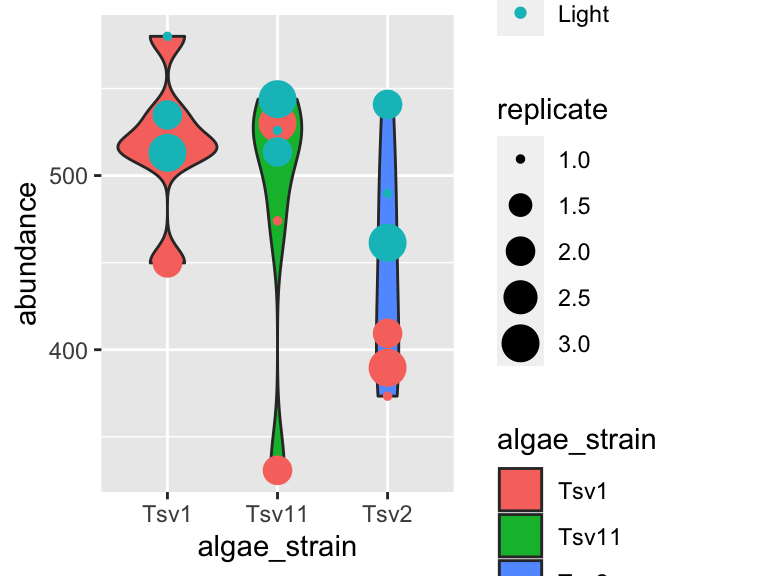
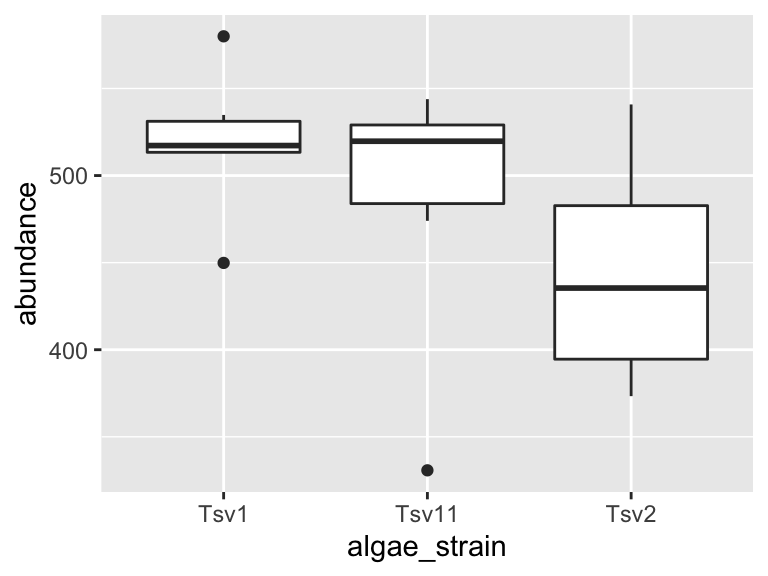
rfc2

diff --git a/R_For_Chemists_2/Exercises_1.html b/R_For_Chemists_2/Exercises_1.html
@@ -179,7 +179,7 @@ code span.wa { color: #60a0b0; font-weight: bold; font-style: italic; } /* Warni
             <section class="normal" id="section-">
 <div id="Exercises_1" class="section level1" number="3">
 <h1><span class="header-section-number">3</span> Exercises 1</h1>
-<p>In this set of exercises we’re going to practice filtering and plotting data in R Markdown. We’re going to work with two datasets: (i) algae_data and (ii) alaska_lake_data. <strong>For these exercises, you will write your code and answers to any questions in an R Markdown report, compile it as a pdf, and submit it on Canvas. If you have any questions please let me know</strong></p>
+<p>In this set of exercises we’re going to practice filtering and plotting data in R Markdown. We’re going to work with two datasets: (i) algae_data and (ii) alaska_lake_data. <strong>For these exercises, you will write your code and answers to all questions in an R Markdown report, compile it as a pdf, and submit it on Canvas. If you have any questions please let me know</strong></p>
 <div id="part-1-algae-chemistry-dataset" class="section level2" number="3.1">
 <h2><span class="header-section-number">3.1</span> Part 1: Algae Chemistry Dataset</h2>
 <!-- 1. **Importing data**
@@ -203,7 +203,7 @@ Import the algae chemistry data and send it into a new object called `algae_data
 <ol style="list-style-type: decimal">
 <li><strong>Filtering 1</strong></li>
 </ol>
-<p>The algae data you have stored in an object called <code>algae_data</code> as soon as you run the source() command. for this question, filter the data so that only entries are shown for which the <code>chemical_species</code> is “FAs” (remember that quotes are needed around FAs here!). What are the dimensions (i.e. number of rows and columns) of the resulting dataset?</p>
+<p>You will have <code>algae_data</code> stored in an object called <code>algae_data</code> as soon as you run the source() command. For this question, filter the data so that only entries are shown for which the <code>chemical_species</code> is “FAs” (remember that quotes are needed around FAs here!). What are the dimensions (i.e. number of rows and columns) of the resulting dataset?</p>
 <ol start="2" style="list-style-type: decimal">
 <li><strong>Filtering 2</strong></li>
 </ol>
@@ -225,38 +225,22 @@ Import the algae chemistry data and send it into a new object called `algae_data
 <ol start="6" style="list-style-type: decimal">
 <li><strong>Filtering and plotting</strong></li>
 </ol>
-<p>I am going to show you an example of how you can filter and plot at the same time:</p>
-<div class="sourceCode" id="cb24"><pre class="sourceCode r"><code class="sourceCode r"><span id="cb24-1"><a href="Exercises_1.html#cb24-1" aria-hidden="true" tabindex="-1"></a><span class="fu">library</span>(tidyverse)</span>
-<span id="cb24-2"><a href="Exercises_1.html#cb24-2" aria-hidden="true" tabindex="-1"></a>algae_data</span>
-<span id="cb24-3"><a href="Exercises_1.html#cb24-3" aria-hidden="true" tabindex="-1"></a><span class="do">## # A tibble: 180 × 5</span></span>
-<span id="cb24-4"><a href="Exercises_1.html#cb24-4" aria-hidden="true" tabindex="-1"></a><span class="do">##    replicate algae_strain harvesting_regime chemical_species           abundance</span></span>
-<span id="cb24-5"><a href="Exercises_1.html#cb24-5" aria-hidden="true" tabindex="-1"></a><span class="do">##        &lt;dbl&gt; &lt;chr&gt;        &lt;chr&gt;             &lt;chr&gt;                          &lt;dbl&gt;</span></span>
-<span id="cb24-6"><a href="Exercises_1.html#cb24-6" aria-hidden="true" tabindex="-1"></a><span class="do">##  1         1 Tsv1         Heavy             FAs                            520. </span></span>
-<span id="cb24-7"><a href="Exercises_1.html#cb24-7" aria-hidden="true" tabindex="-1"></a><span class="do">##  2         1 Tsv1         Heavy             saturated_Fas                  123. </span></span>
-<span id="cb24-8"><a href="Exercises_1.html#cb24-8" aria-hidden="true" tabindex="-1"></a><span class="do">##  3         1 Tsv1         Heavy             omega_3_polyunsaturated_F…     186. </span></span>
-<span id="cb24-9"><a href="Exercises_1.html#cb24-9" aria-hidden="true" tabindex="-1"></a><span class="do">##  4         1 Tsv1         Heavy             monounsaturated_Fas             28.4</span></span>
-<span id="cb24-10"><a href="Exercises_1.html#cb24-10" aria-hidden="true" tabindex="-1"></a><span class="do">##  5         1 Tsv1         Heavy             polyunsaturated_Fas            369. </span></span>
-<span id="cb24-11"><a href="Exercises_1.html#cb24-11" aria-hidden="true" tabindex="-1"></a><span class="do">##  6         1 Tsv1         Heavy             omega_6_polyunsaturated_F…     183. </span></span>
-<span id="cb24-12"><a href="Exercises_1.html#cb24-12" aria-hidden="true" tabindex="-1"></a><span class="do">##  7         1 Tsv1         Heavy             lysine                          84.1</span></span>
-<span id="cb24-13"><a href="Exercises_1.html#cb24-13" aria-hidden="true" tabindex="-1"></a><span class="do">##  8         1 Tsv1         Heavy             methionine                      24.1</span></span>
-<span id="cb24-14"><a href="Exercises_1.html#cb24-14" aria-hidden="true" tabindex="-1"></a><span class="do">##  9         1 Tsv1         Heavy             essential_Aas                  692. </span></span>
-<span id="cb24-15"><a href="Exercises_1.html#cb24-15" aria-hidden="true" tabindex="-1"></a><span class="do">## 10         1 Tsv1         Heavy             non_essential_Aas              919. </span></span>
-<span id="cb24-16"><a href="Exercises_1.html#cb24-16" aria-hidden="true" tabindex="-1"></a><span class="do">## # … with 170 more rows</span></span>
-<span id="cb24-17"><a href="Exercises_1.html#cb24-17" aria-hidden="true" tabindex="-1"></a><span class="fu">ggplot</span>(</span>
-<span id="cb24-18"><a href="Exercises_1.html#cb24-18" aria-hidden="true" tabindex="-1"></a>  <span class="at">data =</span> <span class="fu">filter</span>(algae_data, chemical_species <span class="sc">==</span> <span class="st">&quot;essential_Aas&quot;</span>),</span>
-<span id="cb24-19"><a href="Exercises_1.html#cb24-19" aria-hidden="true" tabindex="-1"></a>  <span class="fu">aes</span>(<span class="at">x =</span> algae_strain, <span class="at">y =</span> abundance)) <span class="sc">+</span></span>
-<span id="cb24-20"><a href="Exercises_1.html#cb24-20" aria-hidden="true" tabindex="-1"></a><span class="fu">geom_point</span>()</span></code></pre></div>
+<p>I am going to show you an example of how you can filter and plot at the same time. To do this, we nest the filter command inside ggplot’s data argument:</p>
+<div class="sourceCode" id="cb24"><pre class="sourceCode r"><code class="sourceCode r"><span id="cb24-1"><a href="Exercises_1.html#cb24-1" aria-hidden="true" tabindex="-1"></a><span class="fu">ggplot</span>(</span>
+<span id="cb24-2"><a href="Exercises_1.html#cb24-2" aria-hidden="true" tabindex="-1"></a>  <span class="at">data =</span> <span class="fu">filter</span>(algae_data, chemical_species <span class="sc">==</span> <span class="st">&quot;essential_Aas&quot;</span>),</span>
+<span id="cb24-3"><a href="Exercises_1.html#cb24-3" aria-hidden="true" tabindex="-1"></a>  <span class="fu">aes</span>(<span class="at">x =</span> algae_strain, <span class="at">y =</span> abundance)) <span class="sc">+</span></span>
+<span id="cb24-4"><a href="Exercises_1.html#cb24-4" aria-hidden="true" tabindex="-1"></a><span class="fu">geom_point</span>()</span></code></pre></div>
 <p><img src="index_files/figure-html/unnamed-chunk-35-1.png" width="384" style="display: block; margin: auto;" /></p>
 <p>Using the above as a template, make a plot that shows just <code>omega_3_polyunsaturated_Fas</code>, with algae_strain on the x axis, and abundance on the y axis. Color the points so that they correspond to <code>harvesting_regime</code>. Remember that mapping a feature of a shape onto a variable must be done inside <code>aes()</code>. Change the plot so that all the points are size = 5. Remember that mapping features of a shape to a constant needs to be done outside <code>aes()</code>. Which harvesting regime leads to higher levels of <code>omega_3_polyunsaturated_Fas</code>?</p>
-<ol start="8" style="list-style-type: decimal">
+<ol start="7" style="list-style-type: decimal">
 <li><strong>Filtering and plotting</strong></li>
 </ol>
 <p>Use a combination of filtering and plotting to show the abundance of the different chemical species in just the <code>algae_strain</code> called “Tsv1”. Use an x and y axis, as well as points to represent the measurements. Make point size correspond to the replicate, and color the points according to harvesting regime.</p>
-<ol start="9" style="list-style-type: decimal">
+<ol start="8" style="list-style-type: decimal">
 <li><strong>Open-ended plotting</strong></li>
 </ol>
 <p>Make a plot that checks to see which <code>chemical_species</code> were more abundant under light as opposed to heavy <code>harvesting_regime</code> in all three replicates. Use filtered data so that just one <code>algae_strain</code> is shown, an x and a y axis, and points to represent the measurements. Make the points <code>size = 5</code> and also set the point’s <code>alpha = 0.6</code>. The points should be colored according to harvesting_regime. Make 3 plots, one for each strain of algae.</p>
-<ol start="10" style="list-style-type: decimal">
+<ol start="9" style="list-style-type: decimal">
 <li><strong>A peek at what’s to come…</strong></li>
 </ol>
 <p>Take the code that you made for Question 9. Remove the filtering. Add the following line to the end of the plot: <code>facet_grid(.~algae_strain)</code>. Remember that adding things to plots is done with the <code>+</code> sign, so your code should look something like:</p>
@@ -267,14 +251,14 @@ Import the algae chemistry data and send it into a new object called `algae_data
 <div class="sourceCode" id="cb26"><pre class="sourceCode r"><code class="sourceCode r"><span id="cb26-1"><a href="Exercises_1.html#cb26-1" aria-hidden="true" tabindex="-1"></a><span class="fu">ggplot</span>(<span class="at">data =</span> algae_data, <span class="fu">aes</span>(<span class="at">x =</span> <span class="sc">&lt;</span>something<span class="sc">&gt;</span>, <span class="at">y =</span> <span class="sc">&lt;</span>something <span class="cf">else</span><span class="sc">&gt;</span>)) <span class="sc">+</span></span>
 <span id="cb26-2"><a href="Exercises_1.html#cb26-2" aria-hidden="true" tabindex="-1"></a>  <span class="fu">geom_point</span>(<span class="fu">aes</span>(<span class="sc">&lt;</span>some things<span class="sc">&gt;</span>), <span class="sc">&lt;</span>some here too<span class="sc">&gt;</span>) <span class="sc">+</span></span>
 <span id="cb26-3"><a href="Exercises_1.html#cb26-3" aria-hidden="true" tabindex="-1"></a>  <span class="fu">facet_grid</span>(algae_strain<span class="sc">~</span>.)</span></code></pre></div>
-<p>What advantages does this one extra line provide over what you had to do in question 9?</p>
+<p>What advantages does this one extra line (i.e. facet_grid) provide over what you had to do in question 8?</p>
 </div>
 <div id="part-2-alaska-lakes-dataset" class="section level2" number="3.2">
 <h2><span class="header-section-number">3.2</span> Part 2: Alaska Lakes Dataset</h2>
 <ol style="list-style-type: decimal">
 <li><strong>Viewing Data</strong></li>
 </ol>
-<p>Use R to view the first few lines of the alaska_lake_data dataset.</p>
+<p>Use R to view the first few lines of the <code>alaska_lake_data</code> dataset. Do your best to describe, in written format, the kind of data that are in this data set.</p>
 <ol start="2" style="list-style-type: decimal">
 <li><strong>Objects</strong></li>
 </ol>
@@ -282,7 +266,7 @@ Import the algae chemistry data and send it into a new object called `algae_data
 <ol start="3" style="list-style-type: decimal">
 <li><strong>Filtering</strong></li>
 </ol>
-<p>Filter the data set so only meausurements of free elements are shown. Remember, it’s <code>==</code>, not <code>=</code>. What are the dimensions of the resulting dataset?</p>
+<p>Filter the data set so only meausurements of free elements (i.e. element_type is “free”) are shown. Remember, it’s <code>==</code>, not <code>=</code>. What are the dimensions of the resulting dataset?</p>
 <ol start="4" style="list-style-type: decimal">
 <li><strong>Plotting</strong></li>
 </ol>
@@ -302,25 +286,15 @@ Import the algae chemistry data and send it into a new object called `algae_data
 <ol start="8" style="list-style-type: decimal">
 <li><strong>Open-ended Plotting</strong></li>
 </ol>
-<p>Make a plot that uses geom_point(). Set the “shape” aesthetic of the points to 21, i.e. <code>geom_point(aes(...), shape = 21)</code>. This gives you access to a new aesthetics: <code>fill</code>. It also changes the behaviour of the <code>color</code> aesthetic slightly. Here is an example:</p>
-<div class="sourceCode" id="cb27"><pre class="sourceCode r"><code class="sourceCode r"><span id="cb27-1"><a href="Exercises_1.html#cb27-1" aria-hidden="true" tabindex="-1"></a><span class="fu">library</span>(tidyverse)</span>
-<span id="cb27-2"><a href="Exercises_1.html#cb27-2" aria-hidden="true" tabindex="-1"></a>alaska_lake_data</span>
-<span id="cb27-3"><a href="Exercises_1.html#cb27-3" aria-hidden="true" tabindex="-1"></a><span class="do">## # A tibble: 220 × 7</span></span>
-<span id="cb27-4"><a href="Exercises_1.html#cb27-4" aria-hidden="true" tabindex="-1"></a><span class="do">##    lake                park  water_temp    pH element mg_per_L element_type</span></span>
-<span id="cb27-5"><a href="Exercises_1.html#cb27-5" aria-hidden="true" tabindex="-1"></a><span class="do">##    &lt;chr&gt;               &lt;chr&gt;      &lt;dbl&gt; &lt;dbl&gt; &lt;chr&gt;      &lt;dbl&gt; &lt;chr&gt;       </span></span>
-<span id="cb27-6"><a href="Exercises_1.html#cb27-6" aria-hidden="true" tabindex="-1"></a><span class="do">##  1 Devil_Mountain_Lake BELA        6.46  7.69 C          3.4   bound       </span></span>
-<span id="cb27-7"><a href="Exercises_1.html#cb27-7" aria-hidden="true" tabindex="-1"></a><span class="do">##  2 Devil_Mountain_Lake BELA        6.46  7.69 N          0.028 bound       </span></span>
-<span id="cb27-8"><a href="Exercises_1.html#cb27-8" aria-hidden="true" tabindex="-1"></a><span class="do">##  3 Devil_Mountain_Lake BELA        6.46  7.69 P          0     bound       </span></span>
-<span id="cb27-9"><a href="Exercises_1.html#cb27-9" aria-hidden="true" tabindex="-1"></a><span class="do">##  4 Devil_Mountain_Lake BELA        6.46  7.69 Cl        10.4   free        </span></span>
-<span id="cb27-10"><a href="Exercises_1.html#cb27-10" aria-hidden="true" tabindex="-1"></a><span class="do">##  5 Devil_Mountain_Lake BELA        6.46  7.69 S          0.62  free        </span></span>
-<span id="cb27-11"><a href="Exercises_1.html#cb27-11" aria-hidden="true" tabindex="-1"></a><span class="do">##  6 Devil_Mountain_Lake BELA        6.46  7.69 F          0.04  free        </span></span>
-<span id="cb27-12"><a href="Exercises_1.html#cb27-12" aria-hidden="true" tabindex="-1"></a><span class="do">##  7 Devil_Mountain_Lake BELA        6.46  7.69 Br         0.02  free        </span></span>
-<span id="cb27-13"><a href="Exercises_1.html#cb27-13" aria-hidden="true" tabindex="-1"></a><span class="do">##  8 Devil_Mountain_Lake BELA        6.46  7.69 Na         8.92  free        </span></span>
-<span id="cb27-14"><a href="Exercises_1.html#cb27-14" aria-hidden="true" tabindex="-1"></a><span class="do">##  9 Devil_Mountain_Lake BELA        6.46  7.69 K          1.2   free        </span></span>
-<span id="cb27-15"><a href="Exercises_1.html#cb27-15" aria-hidden="true" tabindex="-1"></a><span class="do">## 10 Devil_Mountain_Lake BELA        6.46  7.69 Ca         5.73  free        </span></span>
-<span id="cb27-16"><a href="Exercises_1.html#cb27-16" aria-hidden="true" tabindex="-1"></a><span class="do">## # … with 210 more rows</span></span>
-<span id="cb27-17"><a href="Exercises_1.html#cb27-17" aria-hidden="true" tabindex="-1"></a><span class="fu">ggplot</span>(<span class="at">data =</span> <span class="fu">filter</span>(alaska_lake_data, lake <span class="sc">==</span> <span class="st">&quot;Lake_Narvakrak&quot;</span>), <span class="fu">aes</span>(<span class="at">x =</span> lake, <span class="at">y =</span> mg_per_L)) <span class="sc">+</span></span>
-<span id="cb27-18"><a href="Exercises_1.html#cb27-18" aria-hidden="true" tabindex="-1"></a>  <span class="fu">geom_point</span>(<span class="at">shape =</span> <span class="dv">21</span>, <span class="at">size =</span> <span class="dv">10</span>, <span class="at">color =</span> <span class="st">&quot;black&quot;</span>, <span class="at">fill =</span> <span class="st">&quot;green&quot;</span>)</span></code></pre></div>
+<p>Make a plot that uses geom_point(). Set the “shape” aesthetic of the points to 21, i.e. <code>geom_point(aes(...), shape = 21)</code>. This gives you access to a new aesthetics: <code>fill</code>. It also changes the behaviour of the <code>color</code> aesthetic slightly, in that it now controls border color, not the internal color. Here is an example (though it doesn’t make a very nice plot):</p>
+<div class="sourceCode" id="cb27"><pre class="sourceCode r"><code class="sourceCode r"><span id="cb27-1"><a href="Exercises_1.html#cb27-1" aria-hidden="true" tabindex="-1"></a><span class="fu">ggplot</span>(</span>
+<span id="cb27-2"><a href="Exercises_1.html#cb27-2" aria-hidden="true" tabindex="-1"></a>  <span class="at">data =</span> <span class="fu">filter</span>(alaska_lake_data, lake <span class="sc">==</span> <span class="st">&quot;Lake_Narvakrak&quot;</span>),</span>
+<span id="cb27-3"><a href="Exercises_1.html#cb27-3" aria-hidden="true" tabindex="-1"></a>  <span class="fu">aes</span>(<span class="at">x =</span> lake, <span class="at">y =</span> mg_per_L)</span>
+<span id="cb27-4"><a href="Exercises_1.html#cb27-4" aria-hidden="true" tabindex="-1"></a>) <span class="sc">+</span></span>
+<span id="cb27-5"><a href="Exercises_1.html#cb27-5" aria-hidden="true" tabindex="-1"></a>  <span class="fu">geom_point</span>(</span>
+<span id="cb27-6"><a href="Exercises_1.html#cb27-6" aria-hidden="true" tabindex="-1"></a>    <span class="at">shape =</span> <span class="dv">21</span>, <span class="at">size =</span> <span class="dv">10</span>,</span>
+<span id="cb27-7"><a href="Exercises_1.html#cb27-7" aria-hidden="true" tabindex="-1"></a>    <span class="at">color =</span> <span class="st">&quot;black&quot;</span>, <span class="at">fill =</span> <span class="st">&quot;green&quot;</span></span>
+<span id="cb27-8"><a href="Exercises_1.html#cb27-8" aria-hidden="true" tabindex="-1"></a>  )</span></code></pre></div>
 <p><img src="index_files/figure-html/unnamed-chunk-52-1.png" width="384" style="display: block; margin: auto;" /></p>
 <p>Now we have lots of aesthetics we can map to: x, y, size, color, and fill (leave shape set to 21 for now). Make a plot of your own design. It should include filtering, and all the aesthetics listed above, though whether you map them to a variable or a constant is up to you.</p>
 <p>When you are done with this plot, take a screen shot of it. Go to <a href="https://docs.google.com/presentation/d/1G0BJ_qye9a_HAPLktFytj66qSj20BjoUOTKtjmCyuN0/edit?usp=sharing">THIS GOOGLE SHEET</a>, make a slide for yourself (you don’t have to include your name), and paste your screen shot there. Add a small caption that explains how your variables are mapped.

diff --git a/R_For_Chemists_2/R_Markdown.html b/R_For_Chemists_2/R_Markdown.html
@@ -312,8 +312,7 @@ code span.wa { color: #60a0b0; font-weight: bold; font-style: italic; } /* Warni
 <span id="cb22-3"><a href="R_Markdown.html#cb22-3" aria-hidden="true" tabindex="-1"></a>  <span class="fu">geom_point</span>(<span class="fu">aes</span>(<span class="at">color =</span> harvesting_regime, <span class="at">size =</span> replicate))</span></code></pre></div>
 <p><img src="index_files/figure-html/unnamed-chunk-24-1.png" width="384" style="display: block; margin: auto;" /></p>
 <div class="sourceCode" id="cb23"><pre class="sourceCode r"><code class="sourceCode r"><span id="cb23-1"><a href="R_Markdown.html#cb23-1" aria-hidden="true" tabindex="-1"></a><span class="fu">ggplot</span>(<span class="at">data =</span> algae_data_small, <span class="fu">aes</span>(<span class="at">x =</span> algae_strain, <span class="at">y =</span> abundance)) <span class="sc">+</span></span>
-<span id="cb23-2"><a href="R_Markdown.html#cb23-2" aria-hidden="true" tabindex="-1"></a>  <span class="fu">geom_violin</span>(<span class="fu">aes</span>(<span class="at">fill =</span> algae_strain)) <span class="sc">+</span></span>
-<span id="cb23-3"><a href="R_Markdown.html#cb23-3" aria-hidden="true" tabindex="-1"></a>  <span class="fu">geom_point</span>(<span class="fu">aes</span>(<span class="at">color =</span> harvesting_regime, <span class="at">size =</span> replicate))</span></code></pre></div>
+<span id="cb23-2"><a href="R_Markdown.html#cb23-2" aria-hidden="true" tabindex="-1"></a>  <span class="fu">geom_boxplot</span>()</span></code></pre></div>
 <p><img src="index_files/figure-html/unnamed-chunk-25-1.png" width="384" style="display: block; margin: auto;" /></p>
 </div>
 </div>
